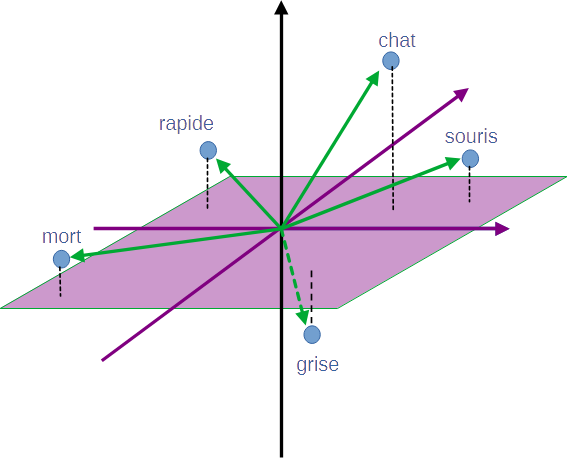
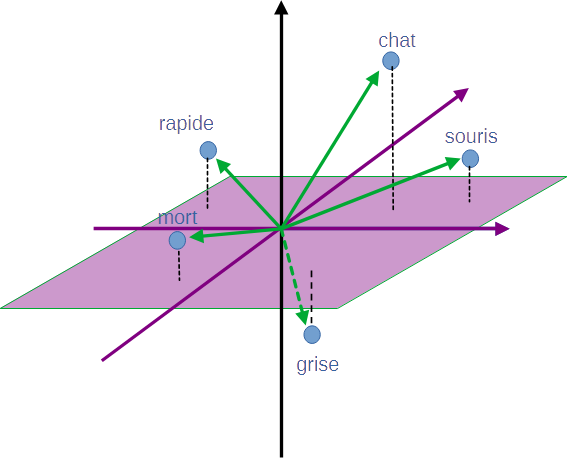
modifs multiple principe

Changed region(s): [[0.06, 0.4575, 0.4797, 0.6405], [0.2998, 0.5795, 0.3298, 0.61]]

diff --git a/mecanisme_attention.md b/mecanisme_attention.md
@@ -21,6 +21,8 @@ L'idée des mécanismes d'attention est de transformer la séquence pour que cha
 
 la sequence d'entrée $$X$$ devient une séquence de sortie $$Y$$ dans laquelle chaque vecteur composant $Y$$ prend en compte certains autres vecteurs de la séquence $$X$$.
 
+#### Un exemple textuel
+
 Prenons un exemple pour que ce soit plus clair. Imaginons que notre séquence soit composée de mots. Par exemple, la phrase suivante : **le chat rapide mange la souris grise.**
 
 Supposons de plus que chaque mot soit encodé par un vecteur dans un espace sémantique (ou chaque direction possède un sens particulier), 
@@ -30,7 +32,25 @@ On peut alors imaginer qu'à l'issue du mécanisme d'attention, chaque mot de la
 - le mot *chat* porte maintenant l'information qu'il est *rapide* (du fait de l'adjectif "rapide"). Il porte aussi peut être l'information qu'il est *masculin*  (du fait de l'article "le"). Enfin, il est peut être *repu*, du fait qu'il a mangé une souris.
 - le mot *souris* porte maintenant l'information qu'elle est *grise* (du fait de l'adjectif "grise"), mais peut être aussi qu'elle est *morte*, puisqu'elle est mangée par le chat.
 
-La figure suivante représente une partie des différents vecteurs de la séquence d'entrée $X$ (*ainsi que la direction "mort", dont j'aurais besoin par la suite*).
+La figure suivante représente une partie des différents vecteurs de la séquence d'entrée $$X$$ (*ainsi que la direction "mort", dont j'aurais besoin par la suite*).
+
+Celle figure (comme les suivantes) est schématique, car elle représente les vecteurs dans un espace de dimension 3. En réalité, on travaille dans des espaces de bien plus grandes dimensions.
 
 ![vecteurs de la séquence d'entrée](Images\vecteurs_semantiques_init.png)
+
+Observons ce qui se passe pour le vecteur représentant la souris. Initialement, il s'agit du 6ème vecteur de la séquence $$X$$. Après le mécanisme d'attention, il s'agit du 6ème vecteur de $$Y$$.
+
+L'action du mécanisme d'attention est représentée dans la figure suivante.
+Le mécanisme d'attention va ajouter à ce vecteur initial "souris" (rouge) le vecteur "grise" pour obtenir une "souris grise". En ajoutant le vecteur "mort" à cette souris grise, on obtient le vecteur "souris grise morte" représenté en orange dans la figure suivante.
+
+Le 6eme vecteur de la séquence $$Y$$
+correspondra ainsi à "une souris grise morte". Ce vecteur porte ainsi de l'information plus pertinente pour les traitements que la simple "souris". L'information a été extraite à partir du contexte (ici, le reste de la phrase).
+
+De la même façon, le 2 vecteur $$X$$ deviendra dans $$Y$$ un vecteur signifiant "un chat rapide et repus".
+
+Si l'on résume : certains mots (comme "rapide", "grise", "mange") vont induire des modifications ("rapide", "grise", "mort", "repu") sur certains mots de la phrase ("chat", "souris")
+
+#### Implémentation
+
+Reste à savoir comment ceci à lieu.
 
